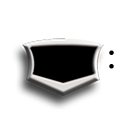
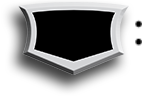
Update planeswaker loyalty

diff --git a/src/components/TemplatingCardRender/assetLoader.tsx b/src/components/TemplatingCardRender/assetLoader.tsx
@@ -474,33 +474,75 @@ import {
   RarityType,
 } from '../../interfaces/enums';
 
-import PlaneswalkerWhiteMainframe from './images/mainframes/planeswalker/W.png';
-import PlaneswalkerWhiteMainframe2 from './images/mainframes/planeswalker/W2.png';
-import PlaneswalkerWhiteMainframe4 from './images/mainframes/planeswalker/W4.png';
-import PlaneswalkerBlueMainframe from './images/mainframes/planeswalker/U.png';
-import PlaneswalkerBlueMainframe2 from './images/mainframes/planeswalker/U2.png';
-import PlaneswalkerBlueMainframe4 from './images/mainframes/planeswalker/U4.png';
-import PlaneswalkerBlackMainframe from './images/mainframes/planeswalker/B.png';
-import PlaneswalkerBlackMainframe2 from './images/mainframes/planeswalker/B2.png';
-import PlaneswalkerBlackMainframe4 from './images/mainframes/planeswalker/B4.png';
-import PlaneswalkerRedMainframe from './images/mainframes/planeswalker/R.png';
-import PlaneswalkerRedMainframe2 from './images/mainframes/planeswalker/R2.png';
-import PlaneswalkerRedMainframe4 from './images/mainframes/planeswalker/R4.png';
-import PlaneswalkerGreenMainframe from './images/mainframes/planeswalker/G.png';
-import PlaneswalkerGreenMainframe2 from './images/mainframes/planeswalker/G2.png';
-import PlaneswalkerGreenMainframe4 from './images/mainframes/planeswalker/G4.png';
-import PlaneswalkerColorlessMainframe from './images/mainframes/planeswalker/Art.png';
-import PlaneswalkerColorlessMainframe2 from './images/mainframes/planeswalker/Art2.png';
-import PlaneswalkerColorlessMainframe4 from './images/mainframes/planeswalker/Art4.png';
-import PlaneswalkerGoldMainframe from './images/mainframes/planeswalker/Gld.png';
-import PlaneswalkerGoldMainframe2 from './images/mainframes/planeswalker/Gld2.png';
-import PlaneswalkerGoldMainframe4 from './images/mainframes/planeswalker/Gld4.png';
+// Regular planeswalker frames (used for cards with up to 3 ability lines).
+import PlaneswalkerRegularWhite from './images/mainframes/planeswalker/regular/planeswalkerFrameW.png';
+import PlaneswalkerRegularWhiteThumb from './images/mainframes/planeswalker/regular/planeswalkerFrameWThumb.png';
+import PlaneswalkerRegularBlue from './images/mainframes/planeswalker/regular/planeswalkerFrameU.png';
+import PlaneswalkerRegularBlueThumb from './images/mainframes/planeswalker/regular/planeswalkerFrameUThumb.png';
+import PlaneswalkerRegularBlack from './images/mainframes/planeswalker/regular/planeswalkerFrameB.png';
+import PlaneswalkerRegularBlackThumb from './images/mainframes/planeswalker/regular/planeswalkerFrameBThumb.png';
+import PlaneswalkerRegularRed from './images/mainframes/planeswalker/regular/planeswalkerFrameR.png';
+import PlaneswalkerRegularRedThumb from './images/mainframes/planeswalker/regular/planeswalkerFrameRThumb.png';
+import PlaneswalkerRegularGreen from './images/mainframes/planeswalker/regular/planeswalkerFrameG.png';
+import PlaneswalkerRegularGreenThumb from './images/mainframes/planeswalker/regular/planeswalkerFrameGThumb.png';
+import PlaneswalkerRegularGold from './images/mainframes/planeswalker/regular/planeswalkerFrameM.png';
+import PlaneswalkerRegularGoldThumb from './images/mainframes/planeswalker/regular/planeswalkerFrameMThumb.png';
+import PlaneswalkerRegularColorless from './images/mainframes/planeswalker/regular/planeswalkerFrameA.png';
+import PlaneswalkerRegularColorlessThumb from './images/mainframes/planeswalker/regular/planeswalkerFrameAThumb.png';
+
+// Tall planeswalker frames (used for cards with 4 or more ability lines).
+import PlaneswalkerTallWhite from './images/mainframes/planeswalker/tall/planeswalkerTallW.png';
+import PlaneswalkerTallWhiteThumb from './images/mainframes/planeswalker/tall/planeswalkerTallWThumb.png';
+import PlaneswalkerTallBlue from './images/mainframes/planeswalker/tall/planeswalkerTallU.png';
+import PlaneswalkerTallBlueThumb from './images/mainframes/planeswalker/tall/planeswalkerTallUThumb.png';
+import PlaneswalkerTallBlack from './images/mainframes/planeswalker/tall/planeswalkerTallB.png';
+import PlaneswalkerTallBlackThumb from './images/mainframes/planeswalker/tall/planeswalkerTallBThumb.png';
+import PlaneswalkerTallRed from './images/mainframes/planeswalker/tall/planeswalkerTallR.png';
+import PlaneswalkerTallRedThumb from './images/mainframes/planeswalker/tall/planeswalkerTallRThumb.png';
+import PlaneswalkerTallGreen from './images/mainframes/planeswalker/tall/planeswalkerTallG.png';
+import PlaneswalkerTallGreenThumb from './images/mainframes/planeswalker/tall/planeswalkerTallGThumb.png';
+import PlaneswalkerTallGold from './images/mainframes/planeswalker/tall/planeswalkerTallM.png';
+import PlaneswalkerTallGoldThumb from './images/mainframes/planeswalker/tall/planeswalkerTallMThumb.png';
+import PlaneswalkerTallColorless from './images/mainframes/planeswalker/tall/planeswalkerTallA.png';
+import PlaneswalkerTallColorlessThumb from './images/mainframes/planeswalker/tall/planeswalkerTallAThumb.png';
+
+// Borderless planeswalker frames (Borderless art style, up to 3 ability lines).
+import PlaneswalkerBorderlessWhite from './images/mainframes/planeswalker/borderless/w.png';
+import PlaneswalkerBorderlessWhiteThumb from './images/mainframes/planeswalker/borderless/wThumb.png';
+import PlaneswalkerBorderlessBlue from './images/mainframes/planeswalker/borderless/u.png';
+import PlaneswalkerBorderlessBlueThumb from './images/mainframes/planeswalker/borderless/uThumb.png';
+import PlaneswalkerBorderlessBlack from './images/mainframes/planeswalker/borderless/b.png';
+import PlaneswalkerBorderlessBlackThumb from './images/mainframes/planeswalker/borderless/bThumb.png';
+import PlaneswalkerBorderlessRed from './images/mainframes/planeswalker/borderless/r.png';
+import PlaneswalkerBorderlessRedThumb from './images/mainframes/planeswalker/borderless/rThumb.png';
+import PlaneswalkerBorderlessGreen from './images/mainframes/planeswalker/borderless/g.png';
+import PlaneswalkerBorderlessGreenThumb from './images/mainframes/planeswalker/borderless/gThumb.png';
+import PlaneswalkerBorderlessGold from './images/mainframes/planeswalker/borderless/m.png';
+import PlaneswalkerBorderlessGoldThumb from './images/mainframes/planeswalker/borderless/mThumb.png';
+import PlaneswalkerBorderlessColorless from './images/mainframes/planeswalker/borderless/a.png';
+import PlaneswalkerBorderlessColorlessThumb from './images/mainframes/planeswalker/borderless/aThumb.png';
+
+// Tall borderless planeswalker frames (Borderless art style, 4+ ability lines).
+import PlaneswalkerTallBorderlessWhite from './images/mainframes/planeswalker/tallBorderless/w.png';
+import PlaneswalkerTallBorderlessWhiteThumb from './images/mainframes/planeswalker/tallBorderless/wThumb.png';
+import PlaneswalkerTallBorderlessBlue from './images/mainframes/planeswalker/tallBorderless/u.png';
+import PlaneswalkerTallBorderlessBlueThumb from './images/mainframes/planeswalker/tallBorderless/uThumb.png';
+import PlaneswalkerTallBorderlessBlack from './images/mainframes/planeswalker/tallBorderless/b.png';
+import PlaneswalkerTallBorderlessBlackThumb from './images/mainframes/planeswalker/tallBorderless/bThumb.png';
+import PlaneswalkerTallBorderlessRed from './images/mainframes/planeswalker/tallBorderless/r.png';
+import PlaneswalkerTallBorderlessRedThumb from './images/mainframes/planeswalker/tallBorderless/rThumb.png';
+import PlaneswalkerTallBorderlessGreen from './images/mainframes/planeswalker/tallBorderless/g.png';
+import PlaneswalkerTallBorderlessGreenThumb from './images/mainframes/planeswalker/tallBorderless/gThumb.png';
+import PlaneswalkerTallBorderlessGold from './images/mainframes/planeswalker/tallBorderless/m.png';
+import PlaneswalkerTallBorderlessGoldThumb from './images/mainframes/planeswalker/tallBorderless/mThumb.png';
+import PlaneswalkerTallBorderlessColorless from './images/mainframes/planeswalker/tallBorderless/a.png';
+import PlaneswalkerTallBorderlessColorlessThumb from './images/mainframes/planeswalker/tallBorderless/aThumb.png';
 
 import PlaneswalkerPt from './images/pt/planeswalker/LoyaltyBegin.png';
 
 import LoyaltyUp from './images/symbols/loyalty/LoyaltyUp.png';
 import LoyaltyDown from './images/symbols/loyalty/LoyaltyDown.png';
-import LoyaltyZero from './images/symbols/loyalty/LoyaltyZero.png';
+import LoyaltyNeutral from './images/symbols/loyalty/LoyaltyNeutral.png';
 
 import NicknameTitleA from './images/nickname/m15NicknameTitleA.png';
 import NicknameTitleW from './images/nickname/m15NicknameTitleW.png';
@@ -1022,43 +1064,111 @@ export const getLoyaltyIcon = (loyaltyAction?: string) => {
   if (!loyaltyAction) return '';
   if (loyaltyAction.indexOf('+') !== -1) return LoyaltyUp;
   if (loyaltyAction.indexOf('-') !== -1) return LoyaltyDown;
-  if (loyaltyAction === '0') return LoyaltyZero;
+  if (loyaltyAction === '0') return LoyaltyNeutral;
   return '';
 };
 
 export const getPlaneswalkerPt = () => PlaneswalkerPt;
 
-export const getPlaneswalkerMainframe = (color: ColorType, lines: 2 | 3 | 4 | undefined) => {
-  switch (color) {
-    case ColorType.White:
-      if (lines === 2) return PlaneswalkerWhiteMainframe2;
-      if (lines === 4) return PlaneswalkerWhiteMainframe4;
-      return PlaneswalkerWhiteMainframe;
-    case ColorType.Blue:
-      if (lines === 2) return PlaneswalkerBlueMainframe2;
-      if (lines === 4) return PlaneswalkerBlueMainframe4;
-      return PlaneswalkerBlueMainframe;
-    case ColorType.Black:
-      if (lines === 2) return PlaneswalkerBlackMainframe2;
-      if (lines === 4) return PlaneswalkerBlackMainframe4;
-      return PlaneswalkerBlackMainframe;
-    case ColorType.Red:
-      if (lines === 2) return PlaneswalkerRedMainframe2;
-      if (lines === 4) return PlaneswalkerRedMainframe4;
-      return PlaneswalkerRedMainframe;
-    case ColorType.Green:
-      if (lines === 2) return PlaneswalkerGreenMainframe2;
-      if (lines === 4) return PlaneswalkerGreenMainframe4;
-      return PlaneswalkerGreenMainframe;
-    case ColorType.Colorless:
-      if (lines === 2) return PlaneswalkerColorlessMainframe2;
-      if (lines === 4) return PlaneswalkerColorlessMainframe4;
-      return PlaneswalkerColorlessMainframe;
-    default:
-      if (lines === 2) return PlaneswalkerGoldMainframe2;
-      if (lines === 4) return PlaneswalkerGoldMainframe4;
-      return PlaneswalkerGoldMainframe;
-  }
+// Each entry pairs the full-resolution frame with its low-res thumbnail, used
+// by ImageLoader for the blur-up placeholder while the full frame loads.
+const planeswalkerFrames: Record<
+  'regular' | 'tall' | 'borderless' | 'tallBorderless',
+  Record<ColorType, ImageResData>
+> = {
+  regular: {
+    [ColorType.White]: { highRes: PlaneswalkerRegularWhite, lowRes: PlaneswalkerRegularWhiteThumb },
+    [ColorType.Blue]: { highRes: PlaneswalkerRegularBlue, lowRes: PlaneswalkerRegularBlueThumb },
+    [ColorType.Black]: { highRes: PlaneswalkerRegularBlack, lowRes: PlaneswalkerRegularBlackThumb },
+    [ColorType.Red]: { highRes: PlaneswalkerRegularRed, lowRes: PlaneswalkerRegularRedThumb },
+    [ColorType.Green]: { highRes: PlaneswalkerRegularGreen, lowRes: PlaneswalkerRegularGreenThumb },
+    [ColorType.Gold]: { highRes: PlaneswalkerRegularGold, lowRes: PlaneswalkerRegularGoldThumb },
+    [ColorType.Colorless]: {
+      highRes: PlaneswalkerRegularColorless,
+      lowRes: PlaneswalkerRegularColorlessThumb,
+    },
+  },
+  tall: {
+    [ColorType.White]: { highRes: PlaneswalkerTallWhite, lowRes: PlaneswalkerTallWhiteThumb },
+    [ColorType.Blue]: { highRes: PlaneswalkerTallBlue, lowRes: PlaneswalkerTallBlueThumb },
+    [ColorType.Black]: { highRes: PlaneswalkerTallBlack, lowRes: PlaneswalkerTallBlackThumb },
+    [ColorType.Red]: { highRes: PlaneswalkerTallRed, lowRes: PlaneswalkerTallRedThumb },
+    [ColorType.Green]: { highRes: PlaneswalkerTallGreen, lowRes: PlaneswalkerTallGreenThumb },
+    [ColorType.Gold]: { highRes: PlaneswalkerTallGold, lowRes: PlaneswalkerTallGoldThumb },
+    [ColorType.Colorless]: {
+      highRes: PlaneswalkerTallColorless,
+      lowRes: PlaneswalkerTallColorlessThumb,
+    },
+  },
+  borderless: {
+    [ColorType.White]: {
+      highRes: PlaneswalkerBorderlessWhite,
+      lowRes: PlaneswalkerBorderlessWhiteThumb,
+    },
+    [ColorType.Blue]: {
+      highRes: PlaneswalkerBorderlessBlue,
+      lowRes: PlaneswalkerBorderlessBlueThumb,
+    },
+    [ColorType.Black]: {
+      highRes: PlaneswalkerBorderlessBlack,
+      lowRes: PlaneswalkerBorderlessBlackThumb,
+    },
+    [ColorType.Red]: { highRes: PlaneswalkerBorderlessRed, lowRes: PlaneswalkerBorderlessRedThumb },
+    [ColorType.Green]: {
+      highRes: PlaneswalkerBorderlessGreen,
+      lowRes: PlaneswalkerBorderlessGreenThumb,
+    },
+    [ColorType.Gold]: {
+      highRes: PlaneswalkerBorderlessGold,
+      lowRes: PlaneswalkerBorderlessGoldThumb,
+    },
+    [ColorType.Colorless]: {
+      highRes: PlaneswalkerBorderlessColorless,
+      lowRes: PlaneswalkerBorderlessColorlessThumb,
+    },
+  },
+  tallBorderless: {
+    [ColorType.White]: {
+      highRes: PlaneswalkerTallBorderlessWhite,
+      lowRes: PlaneswalkerTallBorderlessWhiteThumb,
+    },
+    [ColorType.Blue]: {
+      highRes: PlaneswalkerTallBorderlessBlue,
+      lowRes: PlaneswalkerTallBorderlessBlueThumb,
+    },
+    [ColorType.Black]: {
+      highRes: PlaneswalkerTallBorderlessBlack,
+      lowRes: PlaneswalkerTallBorderlessBlackThumb,
+    },
+    [ColorType.Red]: {
+      highRes: PlaneswalkerTallBorderlessRed,
+      lowRes: PlaneswalkerTallBorderlessRedThumb,
+    },
+    [ColorType.Green]: {
+      highRes: PlaneswalkerTallBorderlessGreen,
+      lowRes: PlaneswalkerTallBorderlessGreenThumb,
+    },
+    [ColorType.Gold]: {
+      highRes: PlaneswalkerTallBorderlessGold,
+      lowRes: PlaneswalkerTallBorderlessGoldThumb,
+    },
+    [ColorType.Colorless]: {
+      highRes: PlaneswalkerTallBorderlessColorless,
+      lowRes: PlaneswalkerTallBorderlessColorlessThumb,
+    },
+  },
+};
+
+export const getPlaneswalkerMainframe = (
+  color: ColorType,
+  isTall = false,
+  isBorderless = false,
+): ImageResData => {
+  let variant: 'regular' | 'tall' | 'borderless' | 'tallBorderless';
+  if (isBorderless) variant = isTall ? 'tallBorderless' : 'borderless';
+  else variant = isTall ? 'tall' : 'regular';
+
+  return planeswalkerFrames[variant][color];
 };
 
 export const getInvocationPt = () => InvocationPt;

diff --git a/src/components/TemplatingCardRender/PlaneswalkerCardRender.tsx b/src/components/TemplatingCardRender/PlaneswalkerCardRender.tsx
@@ -6,7 +6,13 @@ import { Mana } from '../Mana/Mana';
 
 import TextResize from '../TextResize/TextResize';
 
-import { CardMainType, CoverFit, RarityType } from '../../interfaces/enums';
+import {
+  BasicLandArtStyles,
+  CardArtStyles,
+  CardMainType,
+  CoverFit,
+  RarityType,
+} from '../../interfaces/enums';
 import { Store, StoreType } from '../../store';
 import { getColor } from '../../utils/cardToColor';
 
@@ -28,6 +34,7 @@ import { CARD_WIDTH, CARD_HEIGHT } from '../../utils/constants';
 import getCoverFitClass from './getCoverFitClass';
 
 interface PlaneswalkerCardRenderProps {
+  artStyle?: BasicLandArtStyles | CardArtStyles;
   name: string;
   rarity: RarityType;
   creator?: string;
@@ -54,7 +61,7 @@ const PlaneswalkerCardRender = (cardRender: PlaneswalkerCardRenderProps) => {
   const { name, manaCost, cardStats, cover, coverFit, creator } = cardRender;
   const { cardText, cardID } = cardRender;
   const { backFace, collectionNumber, collectionSize, rarity } = cardRender;
-  const { containerWidth = CARD_WIDTH } = cardRender;
+  const { containerWidth = CARD_WIDTH, artStyle } = cardRender;
 
   const { mechanics } = useContext<StoreType>(Store);
 
@@ -70,8 +77,11 @@ const PlaneswalkerCardRender = (cardRender: PlaneswalkerCardRenderProps) => {
   if (cardText.length === 2) lines = 2;
   else if (cardText.length === 4) lines = 4;
 
+  const isTall = cardText.length >= 4;
+  const isBorderless = artStyle === CardArtStyles.Borderless;
+
   const { color, orderedCost } = getColor(manaCost);
-  const mainframe = getPlaneswalkerMainframe(color, lines);
+  const mainframe = getPlaneswalkerMainframe(color, isTall, isBorderless);
   const pt = getPlaneswalkerPt();
 
   const parsePlaneswalkerLine = (line: string) => {
@@ -108,11 +118,15 @@ const PlaneswalkerCardRender = (cardRender: PlaneswalkerCardRenderProps) => {
             fallBackColor="black"
             className={`${styles.cover} ${getCoverFitClass(styles, coverFit)} card-cover`}
           />
-          <ImageLoader src={mainframe} className={styles.mainframe} fallBackColor="#eed66b" />
+          <ImageLoader
+            src={mainframe.highRes}
+            lowResSrc={mainframe.lowRes}
+            className={styles.mainframe}
+            fallBackColor="#eed66b"
+          />
           <ImageLoader src={getRarityIcon(rarity)} alt="" className={styles.rarity} />
 
           <div>
-            <img className={styles.overlay} src={pt} alt="" />
             <div className={styles.stats}>
               <div>{cardStats}</div>
             </div>

diff --git a/src/components/CardEditor/CardEditor.tsx b/src/components/CardEditor/CardEditor.tsx
@@ -49,12 +49,17 @@ const isArtStyleAvailableForType = (artStyle: string, cardMainType: CardMainType
     return cardMainType === CardMainType.Artifact || cardMainType === CardMainType.ArtifactCreature;
   }
   if (artStyle !== CardArtStyles.Regular) {
-    return (
-      cardMainType !== CardMainType.Planeswalker &&
-      cardMainType !== CardMainType.CreatureToken &&
-      cardMainType !== CardMainType.ArtifactToken &&
-      cardMainType !== CardMainType.TokenLand
-    );
+    const isToken =
+      cardMainType === CardMainType.CreatureToken ||
+      cardMainType === CardMainType.ArtifactToken ||
+      cardMainType === CardMainType.TokenLand;
+    if (isToken) return false;
+    // Planeswalkers only support the Borderless showcase frames, not the other
+    // non-regular art styles.
+    if (cardMainType === CardMainType.Planeswalker) {
+      return artStyle === CardArtStyles.Borderless;
+    }
+    return true;
   }
   return true;
 };

diff --git a/src/components/TemplatingCardRender/Planeswalker.module.scss b/src/components/TemplatingCardRender/Planeswalker.module.scss
@@ -5,8 +5,9 @@
   font-family: 'MPlantin', sans-serif;
   position: absolute;
   font-size: 1.625em;
-  left: 254.17px;
+  left: 254px;
   width: 1147.92px;
+  border: hotpink 6px solid;
 }
 
 .loyaltyIcon1,
@@ -14,14 +15,19 @@
 .loyaltyIcon3,
 .loyaltyIcon4 {
   position: absolute;
-  left: 125px;
+  left: 146px;
   transform: translateX(-50%) translateY(-50%);
   color: white;
   font-family: MPlantin, sans-serif;
-  font-size: 1.7em;
+  font-size: 1.8em;
+
+  img {
+    width: 220px !important;
+    height: 100% !important;
+  }
 
   p {
-    margin-top: 45.83px;
+    margin-top: -44px;
   }
 }
 

diff --git a/src/components/TemplatingCardRender/TemplatingCardRender.module.scss b/src/components/TemplatingCardRender/TemplatingCardRender.module.scss
@@ -380,12 +380,11 @@
 
 .planeswalker {
   .title {
-    font-size: 2.3em;
-    top: 60.42px;
+    top: 74px;
   }
 
   .cost {
-    top: 60.42px;
+    top: 76px;
   }
 
   .cover {
@@ -397,8 +396,8 @@
 
   .stats {
     font-size: 2em;
-    top: 1964.58px;
-    left: 1335.42px;
+    top: 1924px;
+    left: 1314px;
     transform: translateX(-50%) translateY(-50%);
     color: white;
   }
